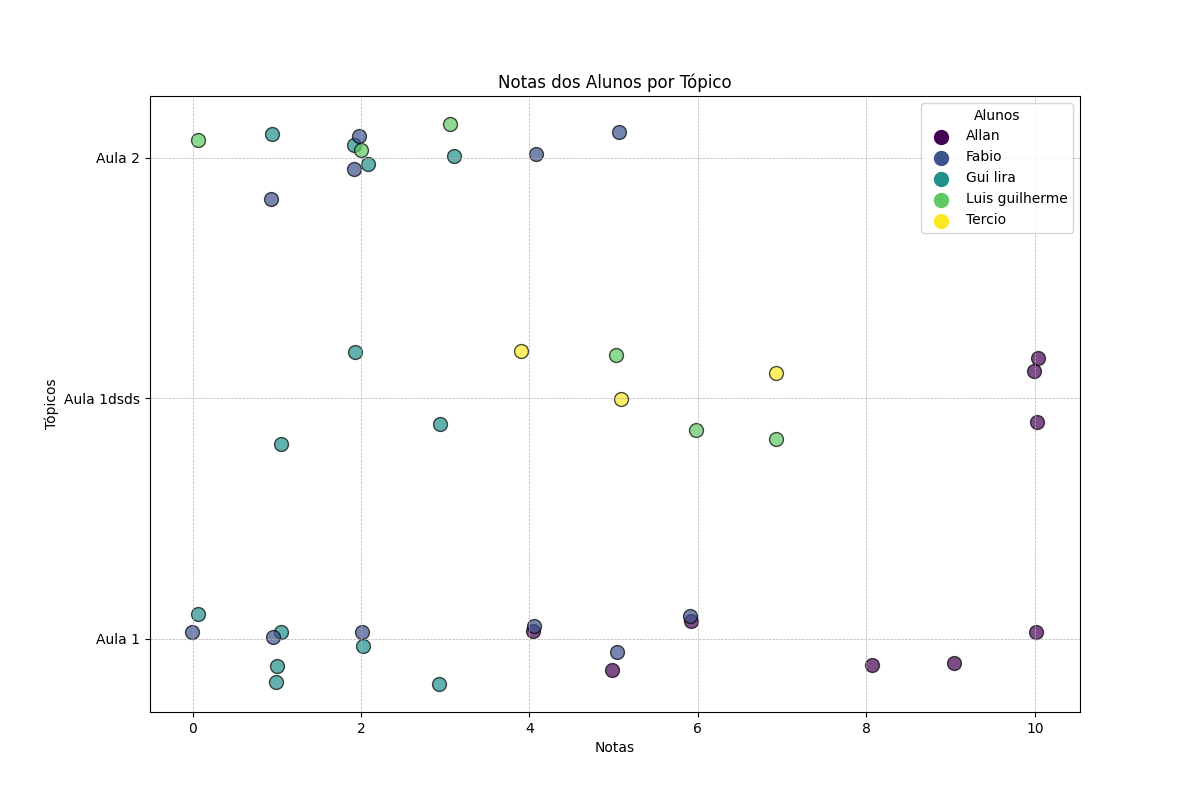
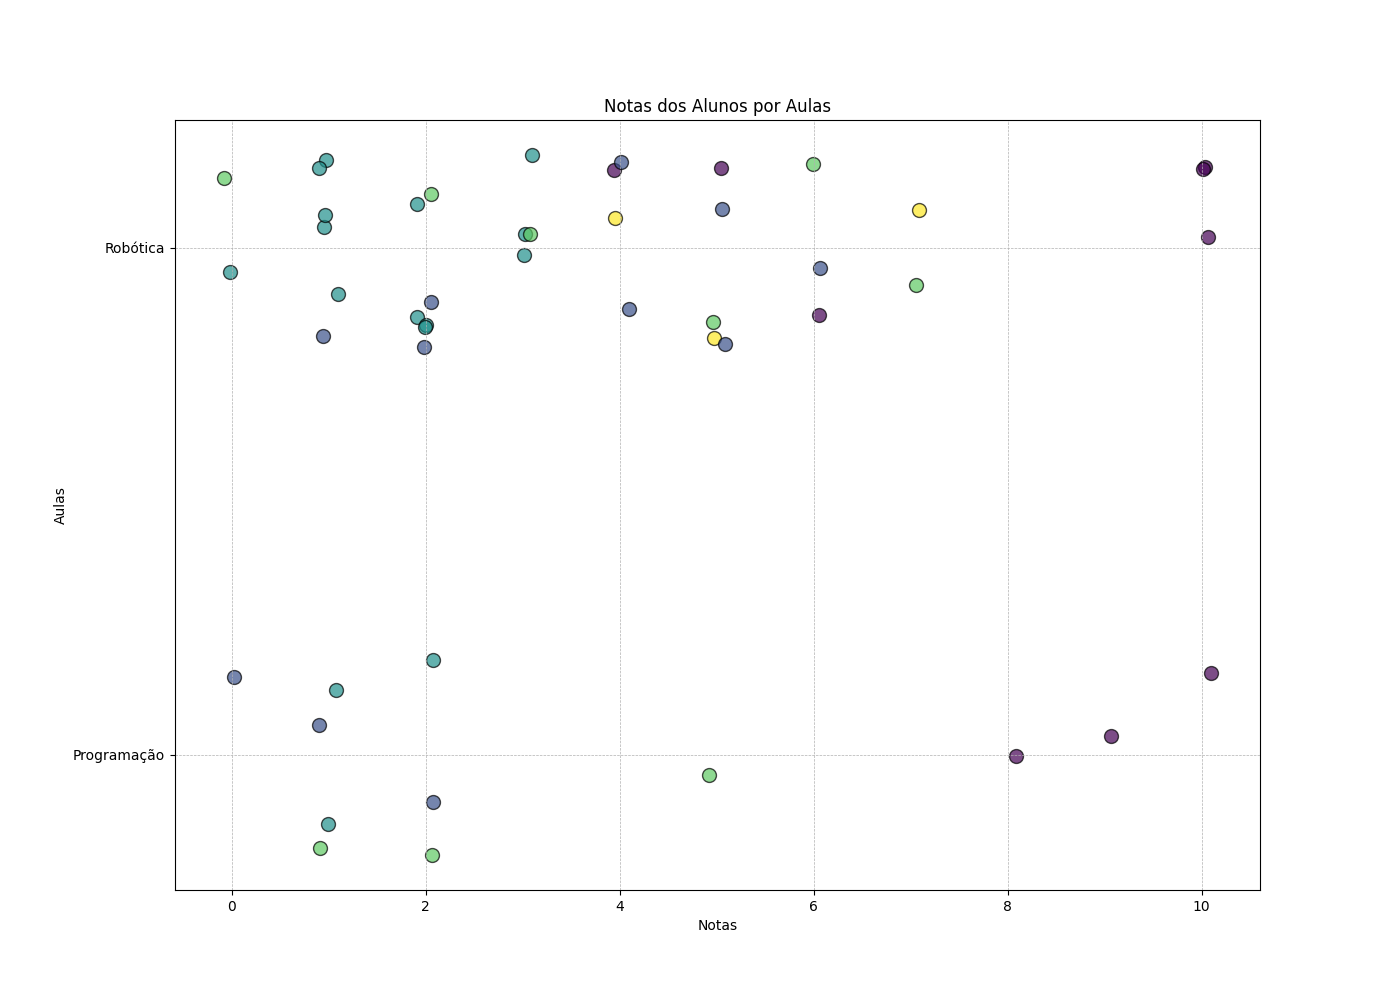
Grafico de desempenho médio por tópico

diff --git a/templates/analisar_desempenho.html b/templates/analisar_desempenho.html
@@ -45,7 +45,10 @@
         <div class="text-center">
             <img src="{{ url_for('static', filename='images/' + plot_url) }}" alt="Gráfico de Desempenho" class="img-fluid">
         </div>
-
+        <div class="text-center mt-4">
+            <img src="{{ url_for('static', filename='images/' + performance_by_topic_plot_url) }}" alt="Gráfico de Notas por Tópico" class="img-fluid">
+        </div>
+        
         <div class="text-center mt-4">
             <img src="{{ url_for('static', filename='images/'+student_performance_plot_url) }}" alt="Gráfico de Desempenho" class="img-fluid">
             <a href="{{ url_for('teacher.dashboard_professor') }}" class="btn btn-primary">Voltar ao Dashboard</a>

diff --git a/templates/ver_aula.html b/templates/ver_aula.html
@@ -46,7 +46,7 @@
                         <input type="hidden" name="pergunta_ids[]" value="{{ pergunta.id }}">
                     </div>
                 {% endfor %}
-                <button type="button" id="submit-respostas">Enviar Respostas</button>
+                <button class="btn btn-primary mt-3" type="button" id="submit-respostas">Enviar Respostas</button>
             </form>
         </div>
 

diff --git a/utils.py b/utils.py
@@ -7,41 +7,6 @@ import matplotlib
 matplotlib.use('Agg')
 from collections import defaultdict
 
-def generate_cluster_plot(X, labels, centroids, alunos_data):
-    perguntas = [d['pergunta'] for d in alunos_data]
-    aulas = [d['aula'] for d in alunos_data]
-    scores = np.array([d['nota'] for d in alunos_data])
-
-    unique_perguntas = list(set(perguntas))
-    unique_aulas = list(set(aulas))
-
-    performance_data = {pergunta: [] for pergunta in unique_perguntas}
-
-    for pergunta in unique_perguntas:
-        for aula in unique_aulas:
-            filtered_scores = [scores[i] for i in range(len(perguntas)) if perguntas[i] == pergunta and aulas[i] == aula]
-            performance_data[pergunta].append(np.mean(filtered_scores) if filtered_scores else 0)
-
-    fig, ax = plt.subplots()
-    width = 0.15
-    x = np.arange(len(unique_aulas))
-
-    for i, pergunta in enumerate(unique_perguntas):
-        ax.bar(x + i * width, performance_data[pergunta], width, label=pergunta)
-
-    ax.set_xlabel('Aulas')
-    ax.set_ylabel('Média das Notas')
-    ax.set_title('Desempenho dos Alunos por Pergunta e Aula')
-    ax.set_xticks(x + width / 2)
-    ax.set_xticklabels(unique_aulas)
-    ax.legend()
-
-    plot_path = 'static/plots/performance_plot.png'
-    plt.savefig(plot_path)
-    plt.close()
-    
-    return plot_path
-
 def kmeans_clustering(alunos_data):
     notas = np.array([nota for _, _, nota, _ in alunos_data]).reshape(-1, 1)
 
@@ -57,7 +22,7 @@ def kmeans_clustering(alunos_data):
     return notas, labels, centroids
 
 def generate_cluster_plot(X, labels, centroids, alunos_data):
-    plt.figure(figsize=(12, 8))
+    plt.figure(figsize=(14, 10))
 
     topicos = sorted(set(aluno[3] for aluno in alunos_data))
     topico_indices = {topico: i for i, topico in enumerate(topicos)}
@@ -86,11 +51,11 @@ def generate_cluster_plot(X, labels, centroids, alunos_data):
     
     for aluno, color in aluno_colors.items():
         plt.scatter([], [], color=color, label=aluno, marker='o', s=100)
-    plt.legend(title="Alunos", loc="upper right")
+    plt.legend(title="Alunos", loc="upper right",bbox_to_anchor=(2, 2))
 
-    plt.title('Notas dos Alunos por Tópico')
+    plt.title('Notas dos Alunos por Aulas')
     plt.xlabel('Notas')
-    plt.ylabel('Tópicos')
+    plt.ylabel('Aulas')
     plt.yticks(range(len(topicos)), topicos)
     plt.grid(True, linestyle='--', linewidth=0.5)
 
@@ -196,3 +161,39 @@ def prever_notas(alunos_data):
             previsoes[nome] = np.mean(notas) if notas else dados.get('nota', None)
 
     return previsoes
+def generate_performance_by_topic_plot(alunos_data):
+    if not alunos_data or not isinstance(alunos_data, list):
+        raise ValueError("alunos_data deve ser uma lista.")
+
+    notas_por_topico = defaultdict(list)
+
+    for aluno in alunos_data:
+        nome = aluno[1]
+        nota = aluno[2]
+        topico = aluno[3]
+
+        try:
+            nota = float(nota)
+        except ValueError:
+            raise ValueError(f"A nota '{nota}' para o aluno '{nome}' não é um número válido.")
+
+        notas_por_topico[topico].append(nota)
+
+    medias_por_topico = {topico: np.mean(notas) for topico, notas in notas_por_topico.items()}
+    topicos = list(medias_por_topico.keys())
+    medias = list(medias_por_topico.values())
+
+    fig, ax = plt.subplots(figsize=(10, 6))
+    ax.barh(topicos, medias, color='skyblue')
+    ax.set_xlabel('Média das Notas')
+    ax.set_ylabel('Tópicos')
+    ax.set_title('Desempenho dos Alunos por Tópico')
+
+    for index, value in enumerate(medias):
+        ax.text(value, index, f"{value:.2f}")
+
+    plot_path = 'static/images/performance_by_topic_plot.png'
+    plt.savefig(plot_path)
+    plt.close()
+
+    return 'performance_by_topic_plot.png'

diff --git a/routes/teacher_routes.py b/routes/teacher_routes.py
@@ -3,14 +3,14 @@ import os
 import numpy as np
 from werkzeug.utils import secure_filename
 from models import (
-    get_db, find_user_by_id, criar_aula, get_aulas_by_professor,
+    find_user_by_id, criar_aula, get_aulas_by_professor,
     get_respostas_by_aula, get_progresso_by_aula, get_alunos,
-    Adicionar_nota, resp_aluno, update_nota_resposta, get_student_scores
+    Adicionar_nota, resp_aluno, update_nota_resposta, get_student_scores,get_student_scores_topic
 )
 from utils import (
     generate_performance_plot, kmeans_clustering,
     generate_cluster_plot, generate_student_performance_plot,
-    prever_notas
+    prever_notas,generate_performance_by_topic_plot
 )
 import sqlite3
 
@@ -266,12 +266,16 @@ def analisar_desempenho():
         return redirect(url_for('auth.login'))
 
     try:
-        alunos_data = get_student_scores()
+        alunos_data = get_student_scores_topic()
 
         if not alunos_data:
             flash("Nenhum dado disponível para análise.", "error")
             return redirect(url_for('teacher.dashboard_professor'))
-        
+
+        # Gerar gráfico de desempenho por tópico
+        performance_by_topic_plot_url = generate_performance_by_topic_plot(alunos_data)
+
+        # Realiza o clustering
         X, labels, centroids = kmeans_clustering(alunos_data)
 
         if X is None or labels is None or centroids is None:
@@ -281,9 +285,16 @@ def analisar_desempenho():
         plot_url = generate_cluster_plot(X, labels, centroids, alunos_data)
         student_performance_plot_url = generate_student_performance_plot(alunos_data)
 
-        return render_template('analisar_desempenho.html', plot_url=plot_url, 
+        return render_template('analisar_desempenho.html', 
+                               plot_url=plot_url, 
                                student_performance_plot_url=student_performance_plot_url, 
+                               performance_by_topic_plot_url=performance_by_topic_plot_url, 
                                alunos_data=alunos_data)
+
     except Exception as e:
         flash(f"Erro ao analisar desempenho: {e}", "error")
         return redirect(url_for('teacher.dashboard_professor'))
+
+
+
+

diff --git a/models.py b/models.py
@@ -1,6 +1,7 @@
 import sqlite3
 from flask import g
-
+from collections import defaultdict
+import numpy as np
 DATABASE = 'database.db'
 
 def init_db():
@@ -235,8 +236,30 @@ def get_student_scores():
 
     conn.close()
     return alunos_data
+def get_student_scores_topic():
+    conn = get_db()
+    cursor = conn.cursor()
 
+    query = """
+    SELECT 
+        r.user_id, 
+        u.nome, 
+        r.nota, 
+        a.topico AS aula_conteudo
+    FROM 
+        respostas r
+        JOIN aulas a ON r.aula_id = a.id
+        JOIN usuarios u ON r.user_id = u.id; 
+    """
+    
+    cursor.execute(query)
+    scores = cursor.fetchall()
+    alunos_data = []
+    for aluno_id, nome, nota, topico in scores:
+        alunos_data.append((aluno_id, nome, nota, topico))
 
+    conn.close()
+    return alunos_data
 
 if __name__ == '__main__':
     init_db()
